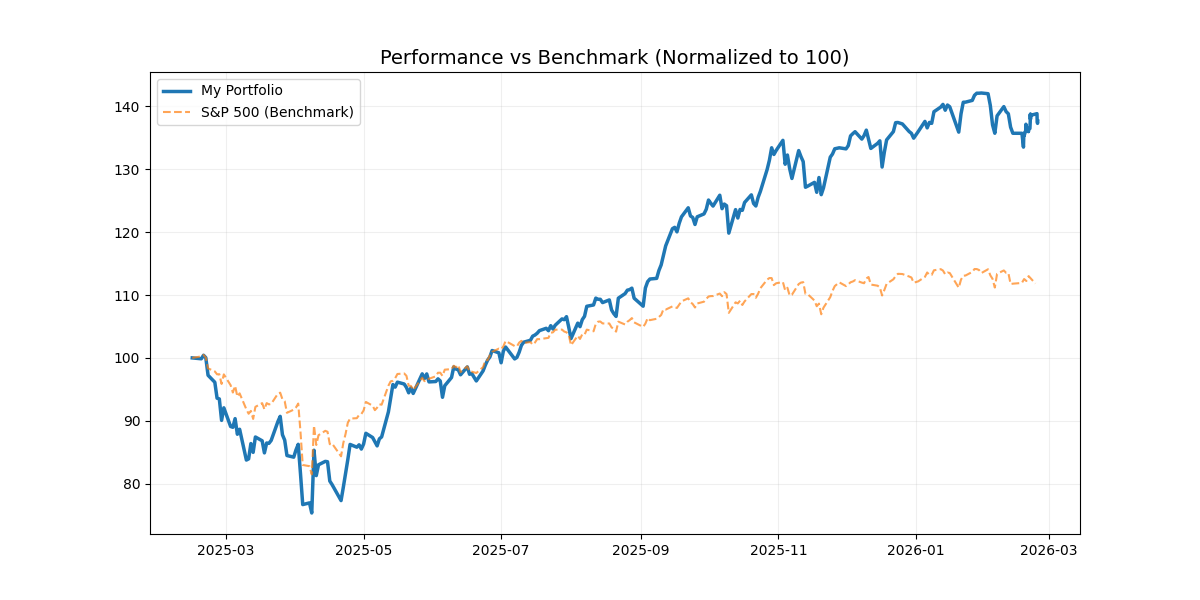
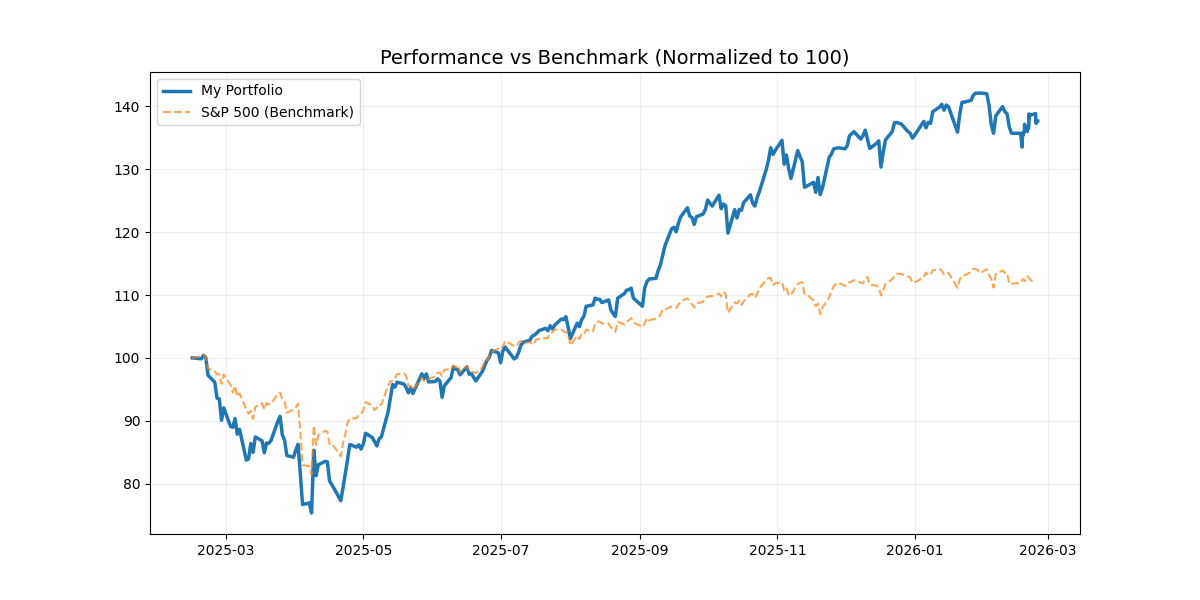
Data Update: Prices & Charts [skip ci]

diff --git a/README.md b/README.md
@@ -3,14 +3,14 @@
 ![Contributions Welcome](https://img.shields.io/badge/contributions-welcome-orange)
 
 # 📊 Portfolio Dashboard | מעקב תיק השקעות
-**Last Update / עדכון אחרון:** 24/02/2026 00:50 | **USD/ILS:** ₪3.123
+**Last Update / עדכון אחרון:** 24/02/2026 15:16 | **USD/ILS:** ₪3.116
 
 ## 💰 Performance Summary | סיכום ביצועים
 | Metric | Value | נתון |
 | :--- | :--- | :--- |
-| **Portfolio Value** | `₪180,983` | **שווי תיק** |
-| **Daily Change** | `-0.67%` (₪-1,214) | **שינוי יומי** |
-| **Total Return** | `+37.65%` (₪49,500) | **תשואה מצטברת** |
+| **Portfolio Value** | `₪180,595` | **שווי תיק** |
+| **Daily Change** | `-0.67%` (₪-1,212) | **שינוי יומי** |
+| **Total Return** | `+37.65%` (₪49,394) | **תשואה מצטברת** |
 | **Max Drawdown** | `-24.97%` | **ירידה מקסימלית** |
 | **Best Stock 🚀** | ASML | **המניה המנצחת** |
 
